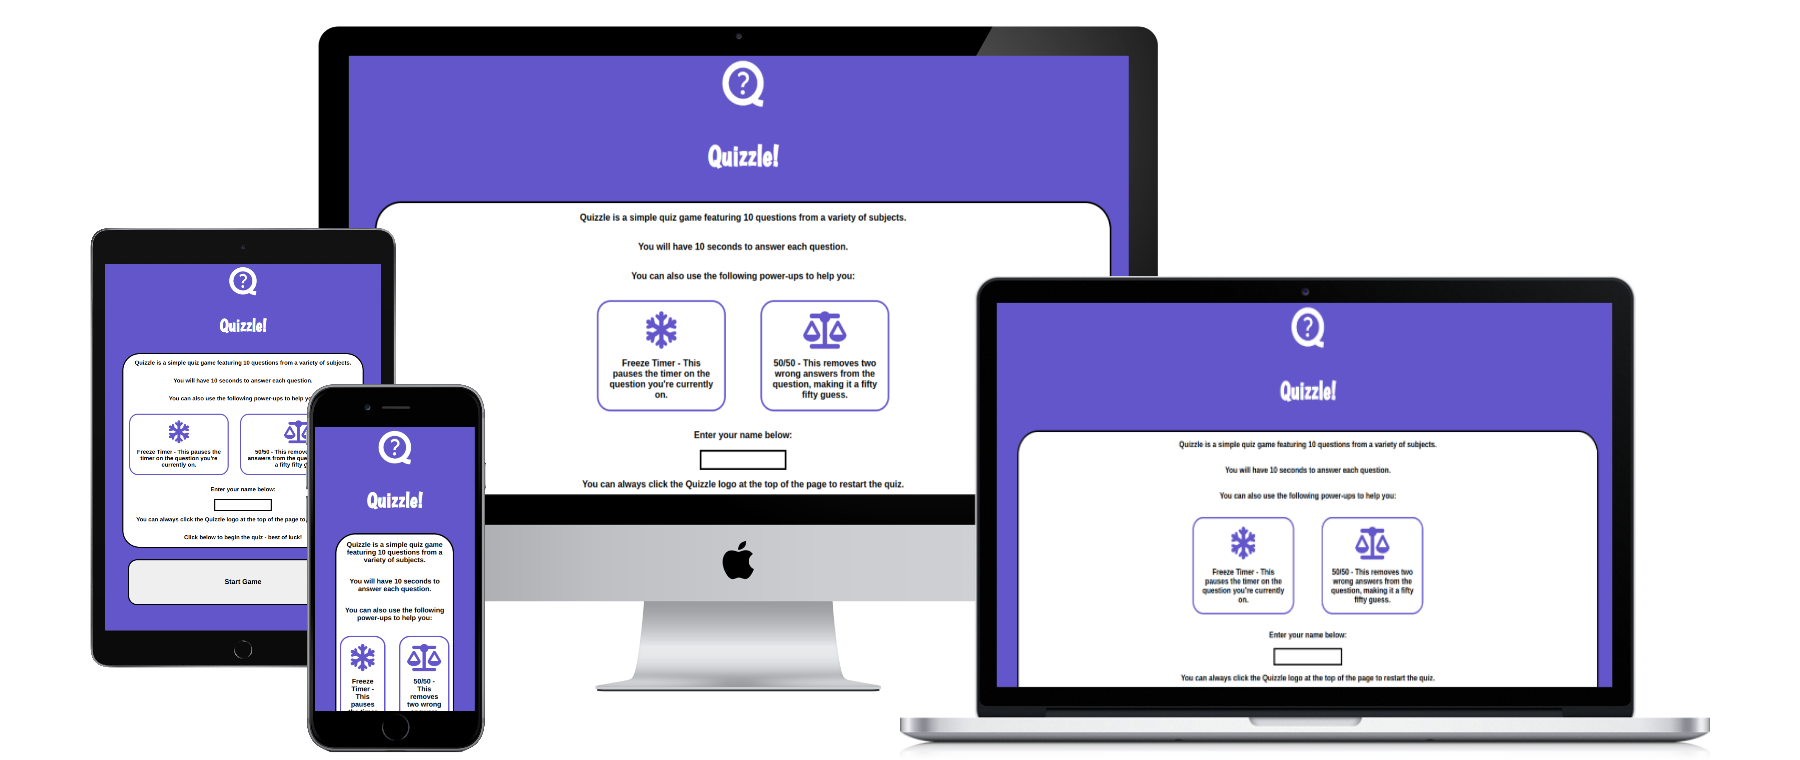
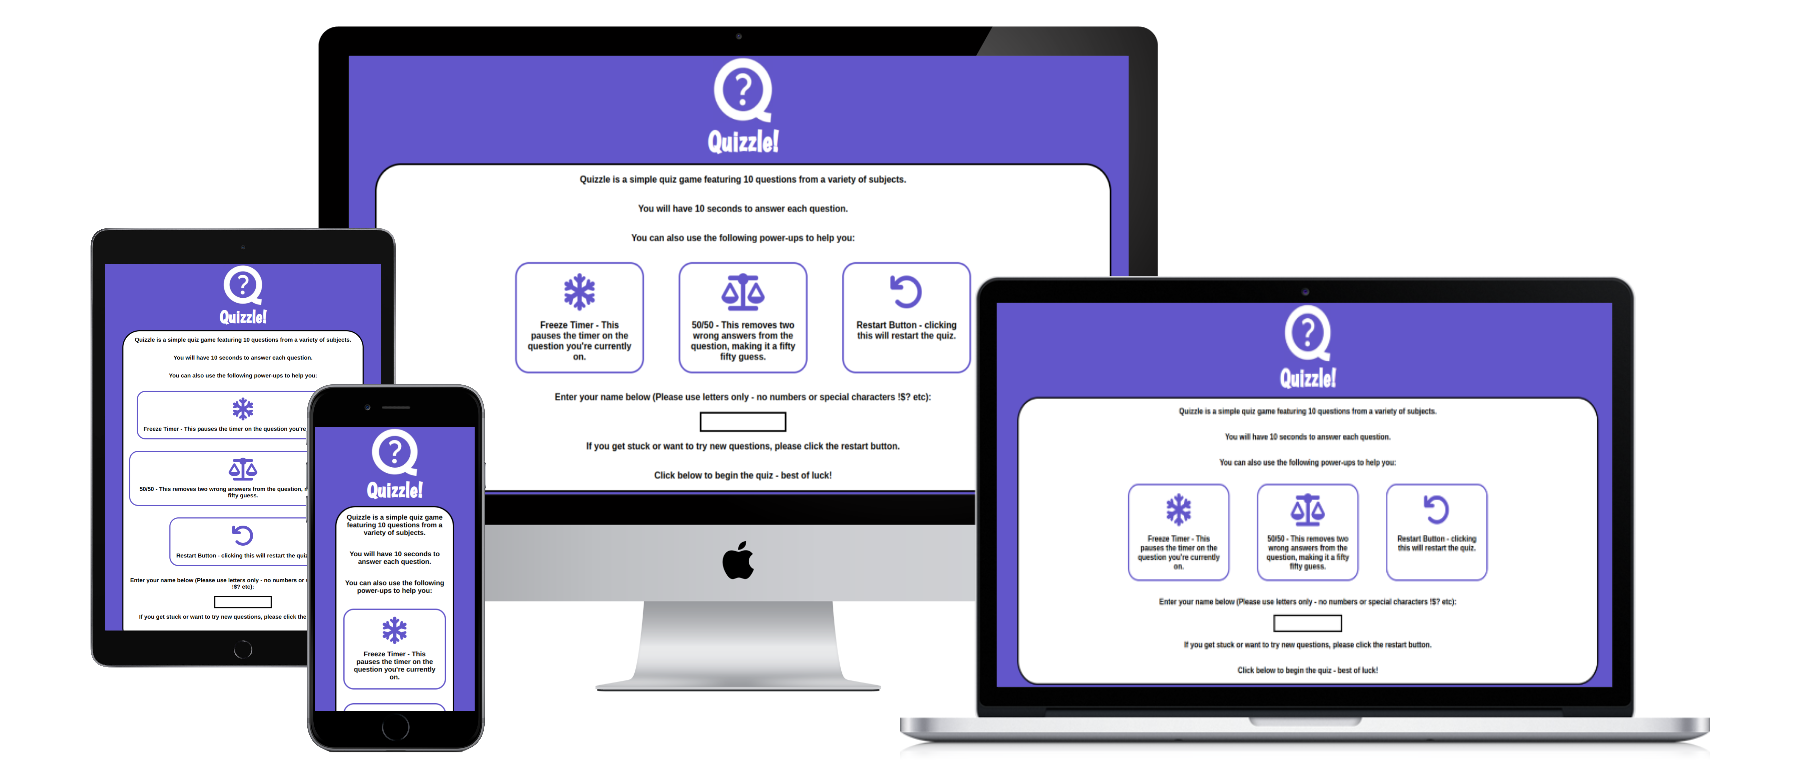
Add content and images to README.md

Changed region(s): [[0.1867, 0.0605, 0.6222, 0.6658], [0.56, 0.3934, 0.9022, 0.9079], [0.0622, 0.3329, 0.2489, 0.9382]]

diff --git a/README.md b/README.md
@@ -28,16 +28,46 @@ The design of the website was created so that users:
 - As a frequent visitor, I want the quiz to remember my name for personalization of the score message.
 - As a frequent visitor, I would like a way to compare my score on the quiz with my friends.
 - As a frequent visitor, I would like to be able to provide feedback on the quiz.
+- As a frequent visitor, I would like to be able to get different questions if I do the quiz multiple times.
 
 ## Features
 ### Logo Header
-### Page Navigation Warning
-### Quiz Personalization
+![Logo Header Image](/documentation/feature-images/logo-header.png)
+- Simple, recognizable logo whci allows the user to refresh the page. 
+- Logo has alt text and aria labelling for accessibility. 
+- Logo is appropriately sized for all viewing devices and is responsive.
+### Quiz Personalization & Name Validation
+![Name Validation Showcase](/documentation/feature-images/name-validation.gif)
+![Personal Score Message - Low Score](/documentation/feature-images/personal-score-low.png)
+![Personal Score Message - Middle Score](/documentation/feature-images/personal-score-mid.png)
+![Personal Score Message - High Score](/documentation/feature-images/personal-score-high.png)
+- Using regex and event listeners for oninput, the user is guided to create a suitable name for their personalised score below.
+- Using template literals and storing the user's name as a variable, a personalised score message can be provded based on how well the user performed in the quiz.
 ### Randomized Questions
+![Random Questions Showcase](/documentation/feature-images/random-questions.gif)
+- Questions are randomised by generating a question pool using Math.random(). This ensures that the user isn't getting the same questions each time.
+- The question pool is formatted as an array of objects, which allows for new questions to be added easily. This also allows for the questions property's to be pulled as part of the functions for the site.
 ### Powerups
+![Freeze Timer](/documentation/feature-images/freeze-timer.gif)
+![Fifty-Fifty](/documentation/feature-images/fifty-fifty.gif)
+- The site contains two powerups for users to utilise, each being available once per quiz. 
+    - Freeze Timer - this freezes the timer to allow the user to answer the question at their own pace.
+    - 50/50 (Fifty-Fifty) - This removes two random wrong answers from the current quiz question, allowing the user a 50% chance to pick the right answer.
 ### Tooltips
+![Tooltips](/documentation/feature-images/tooltips.gif)
+- The powerup and restart buttons are labelled with tooltips which, when hovered over, display the function of each button.
+- The tooltips have a sleek and appealing transition design using CSS, which adds to the UX appeal of the website.
+- For responsiveness and accessibility purposes, on screens where a mouse cursor is not necessarily an option (such as mobile phones and tablets), the tooltips are replaced with a label which is present underneath each icon.
 ### Restart Quiz Functionality
-
+![Restart Quiz Function](/documentation/feature-images/restart-quiz.gif)
+- The user is able to restart the quiz using one of the buttons available. This can be done mid-quiz, or at the end of the quiz.
+- This allows the user to go back to the start if they need to reread the instructions, or to retry the quiz if they are not satisfied with their score, or would like to try different questions.
+### Custom Exit-Intent Modal
+![Exit Modal Functionality Showcase](/documentation/feature-images/exit-modal.gif)
+- When the user's mouse leaves the page, an exit-intent modal displays asking the user to provide feedback on the GitHub issues page.
+- The modal can be removed by clicking anywhere except the central text box where the modal displays. The user is given instructions on how to close the modal if they would like to.
+- To prevent user annoyance, the modal will only show once when attempting to leave the page.
+- The modal also warns the user that if they leave the page, their progress will not be saved on the quiz.
 ## Testing & Bugs
 - For Testing and Bugs, please view the [TESTING.md](/TESTING.md) file.
 
@@ -46,10 +76,13 @@ The design of the website was created so that users:
 
 ## Tools
 - [HTML](https://developer.mozilla.org/en-US/docs/Web/HTML) - Page Structure and Content
+- [HTML <dialog> Element](https://developer.mozilla.org/en-US/docs/Web/HTML/Element/dialog) - Creation of an exit-intent modal.
 - [CSS](https://developer.mozilla.org/en-US/docs/Web/CSS) - Page appearance and styling rules.
 - [CSS Flexbox](https://developer.mozilla.org/en-US/docs/Learn/CSS/CSS_layout/Flexbox) - Used to add responsiveness to pages.
 - [CSS Grid](https://developer.mozilla.org/en-US/docs/Web/CSS/CSS_grid_layout) - Used to arrange tooltips for powerups.
 - [JavaScript](https://developer.mozilla.org/en-US/docs/Web/JavaScript) - Page interactivity and functionality.
+- [JavaScript Regular Expressions](https://developer.mozilla.org/en-US/docs/Web/JavaScript/Guide/Regular_expressions) - Username validation.
+- [JavaScript Event Listeners](https://developer.mozilla.org/en-US/docs/Web/API/EventTarget/addEventListener) - Interactivity based on certain conditions being met.
 - [Visual Studio Code Desktop](https://code.visualstudio.com/) - IDE used for project development.
 - [Git](https://git-scm.com/) - Version control.
 - [GitHub Desktop](https://desktop.github.com/download/) - Additional version control.
@@ -73,6 +106,7 @@ The design of the website was created so that users:
 ### Content
 - [Coding2GO](https://www.youtube.com/watch?v=UQKWc2r_41U) - Guidance on creating a tooltip using CSS.
 - [Web Dev Simplified Blog](https://blog.webdevsimplified.com/2023-04/html-dialog/) - Code for custom modal when the mouse leaves the document.
+- [RegExr.com](https://regexr.com/) - Creation of appropriate regex for name validation. 
 ### Media
 - [Google Fonts](https://fonts.google.com/) - Fonts used within the project (Gowun Dodum & Boogaloo)
 - [Font Awesome](https://fontawesome.com/icons) - Icons and script for use of icons within the project.
